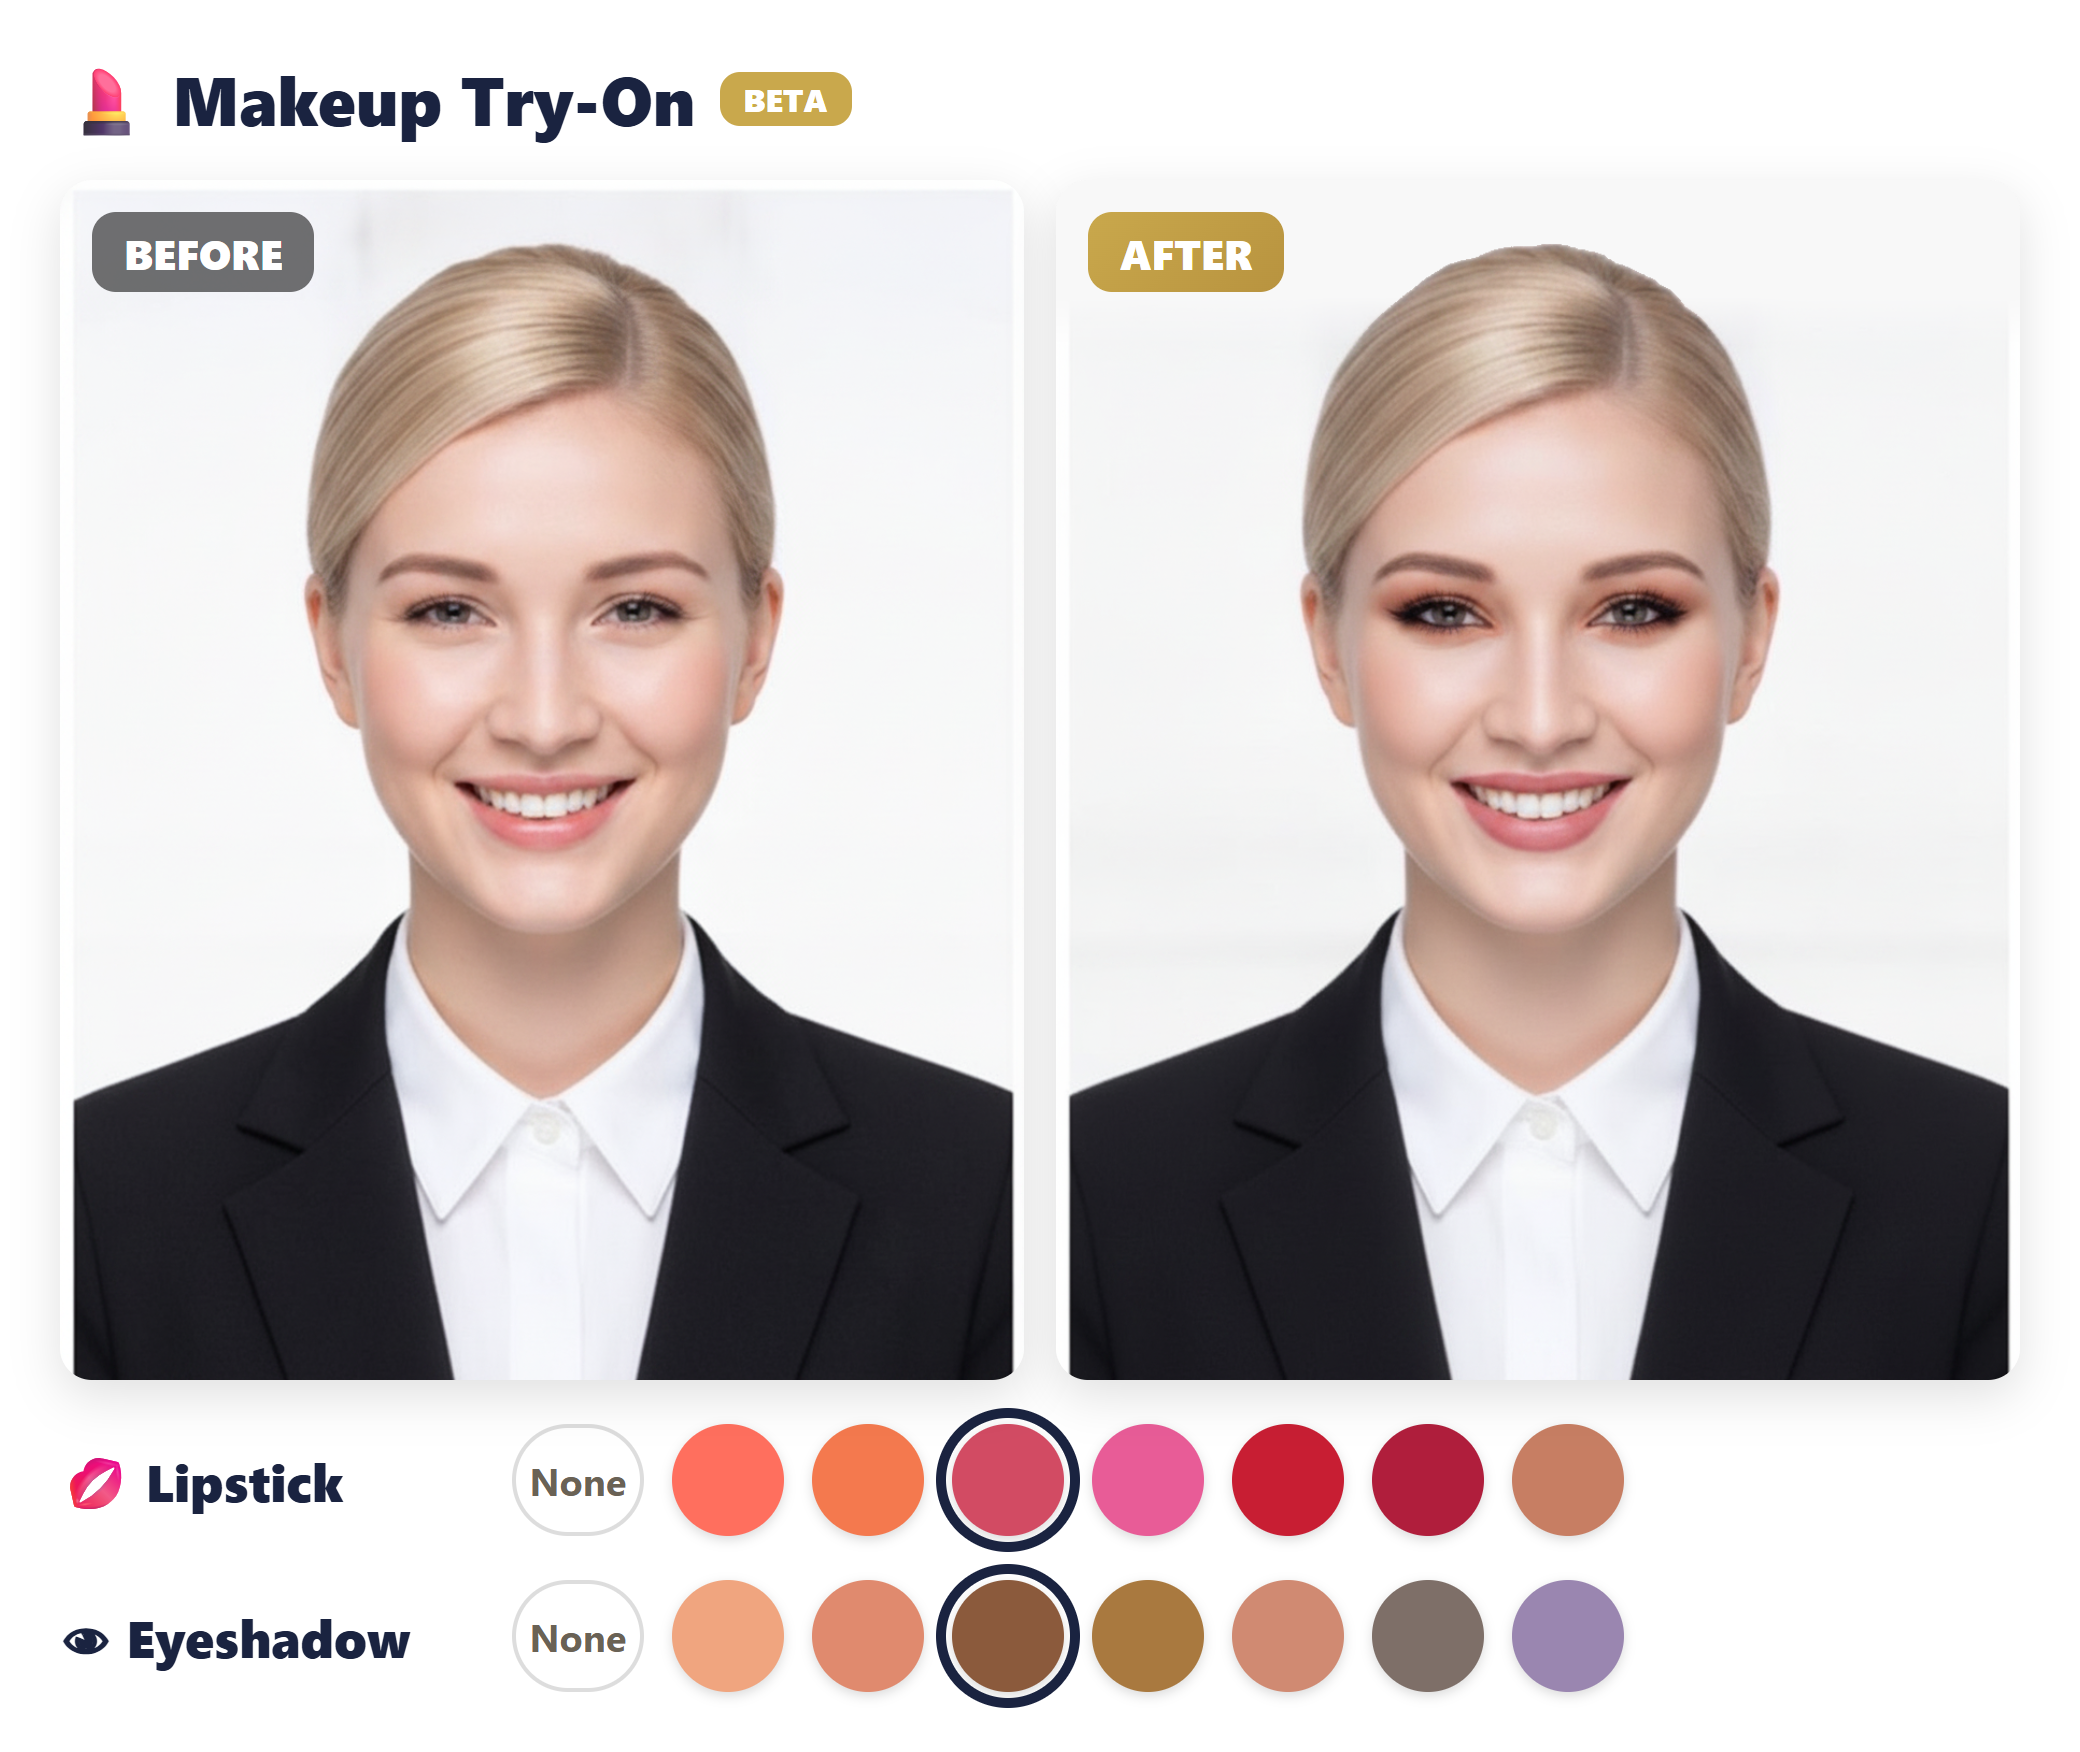
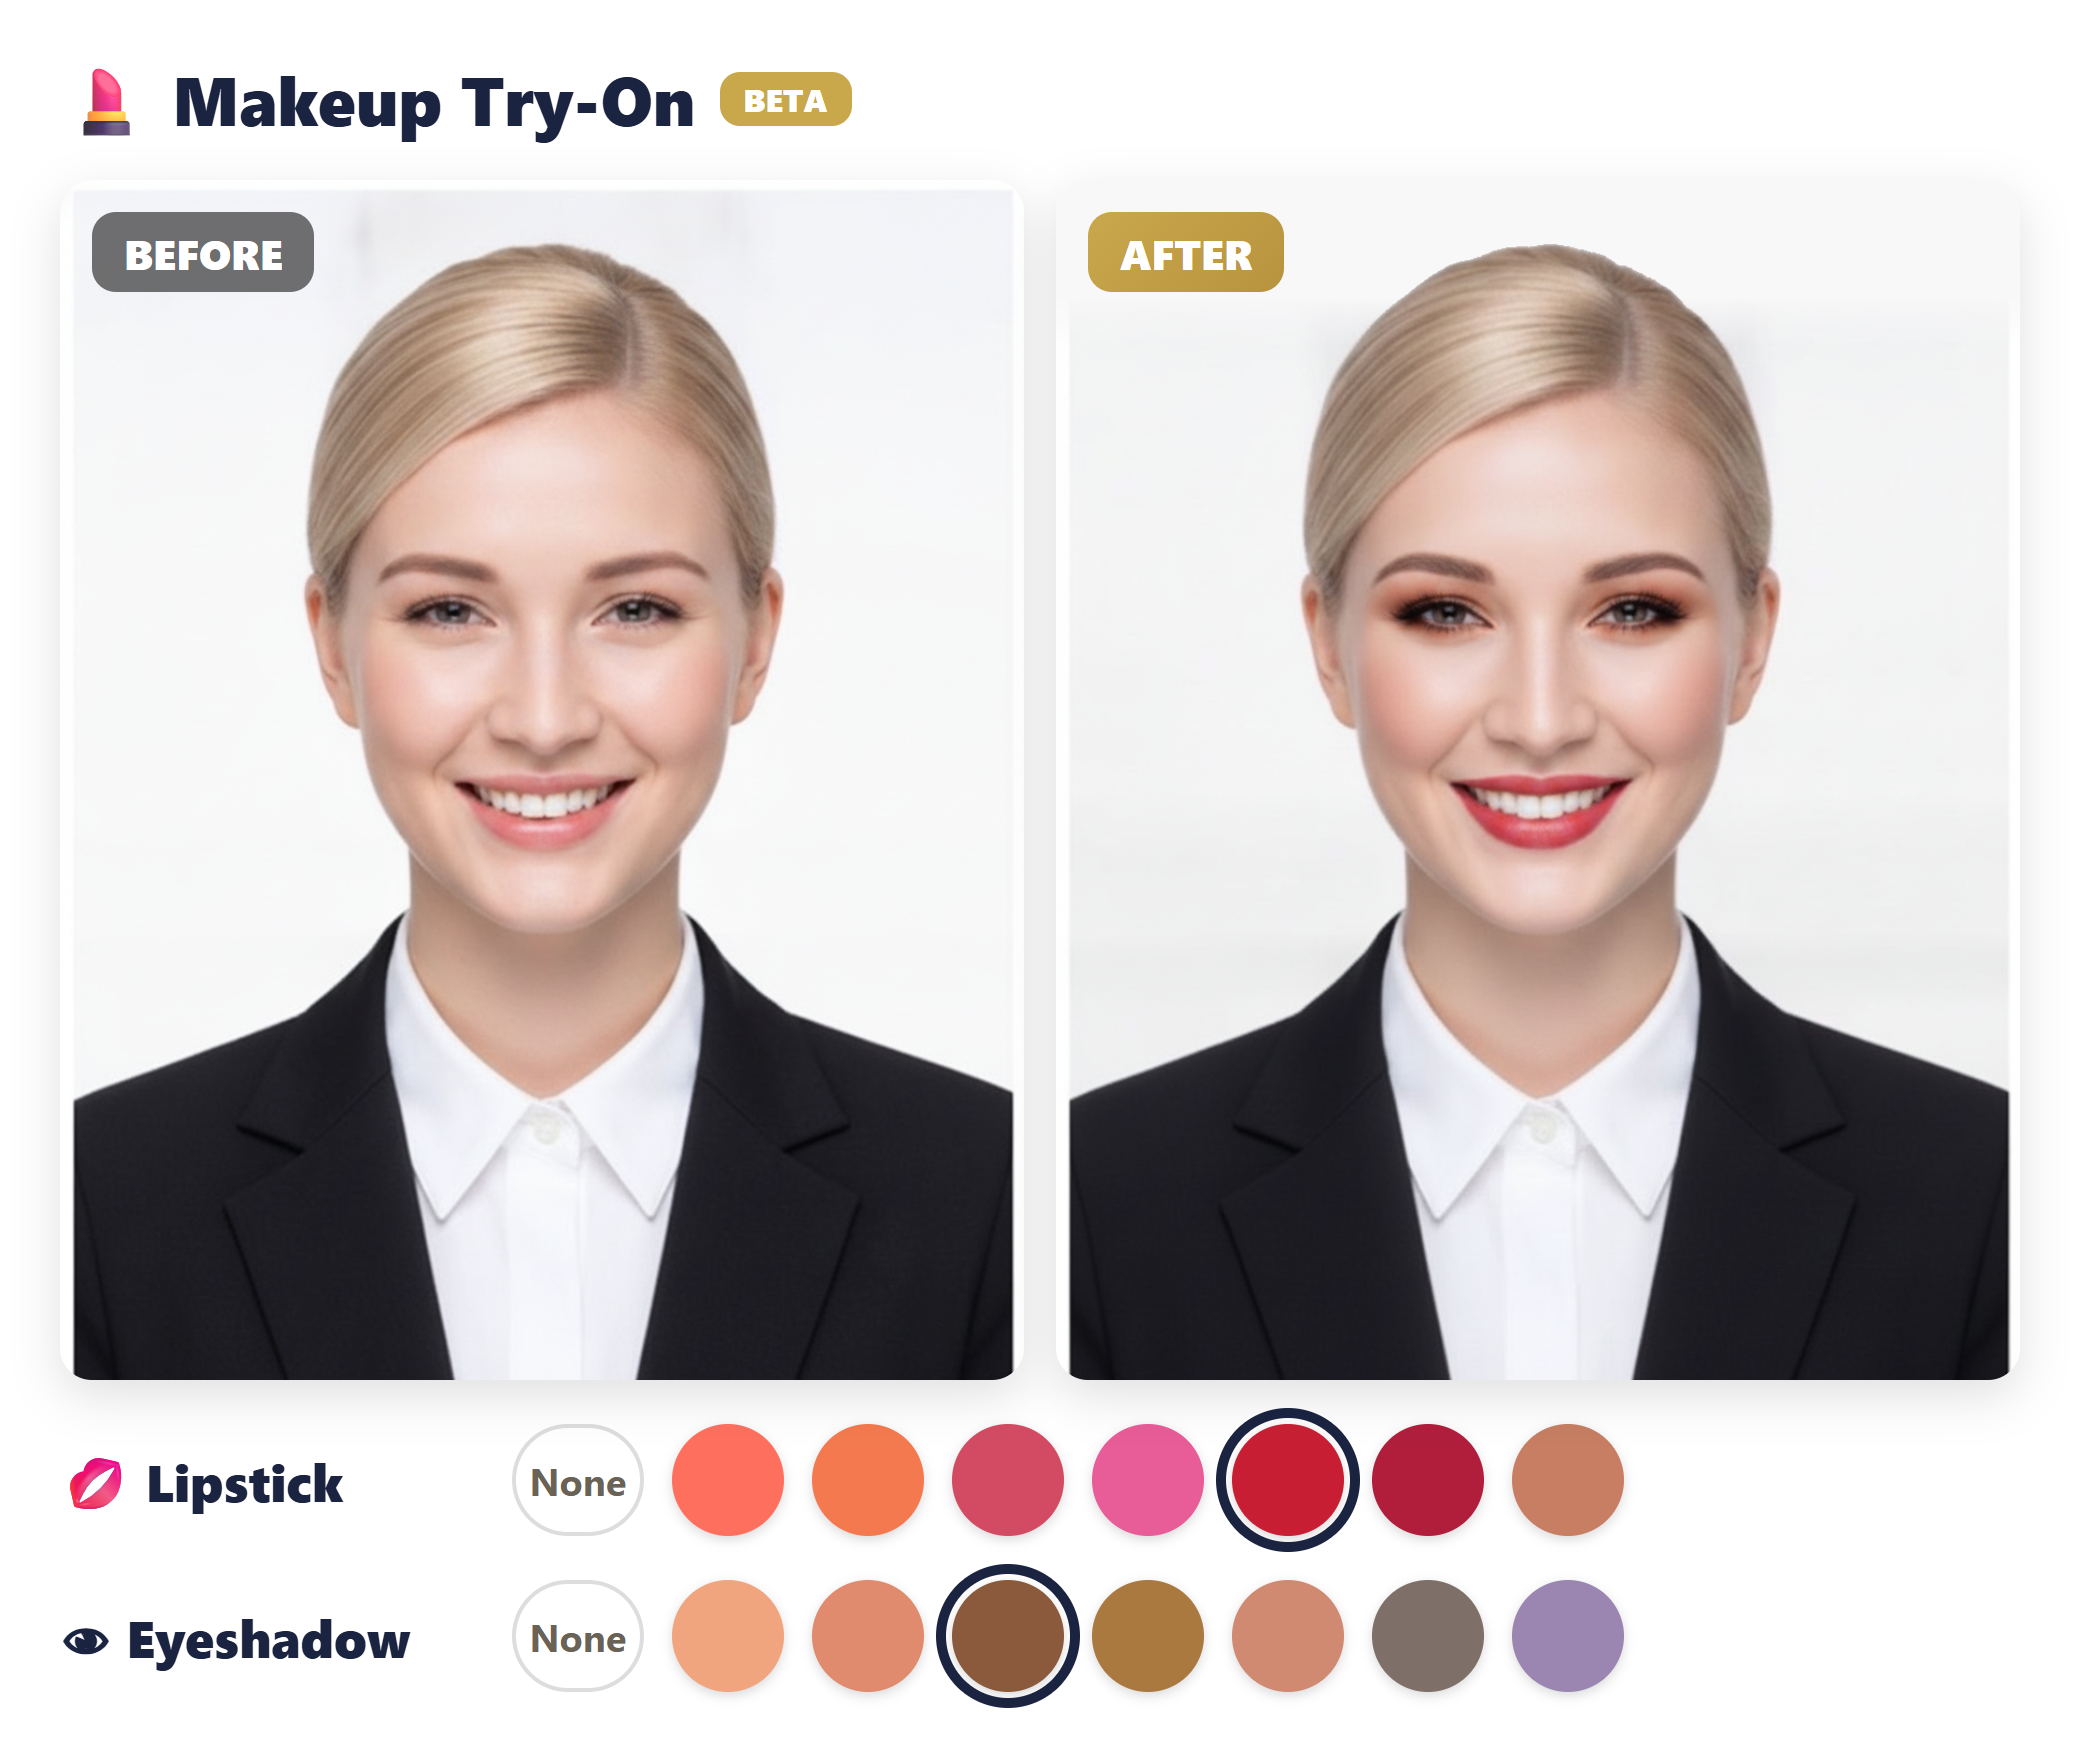
메이크업 애프터: 입술 조금 더 붉게(로즈-레드)
- 눈/볼터치는 유지, 립만 조금 더 붉고 또렷한 로즈-레드로. 썸네일 재캡처 + 캐시버스트 v7.

diff --git a/practice-foreign-en.html b/practice-foreign-en.html
@@ -213,7 +213,7 @@ footer{padding:50px 5%;background:var(--navy);color:rgba(255,255,255,0.6);text-a
   </a>
 
   <a class="hub-card" href="image-check-en.html?photo=images/cv-face-western.png#makeupCard">
-    <div class="hub-vis" style="padding:8px;background:#F7EFDD;"><img src="images/shot-makeup-en.png?v=6" style="width:100%;height:100%;object-fit:contain;border-radius:8px;display:block;" alt="Makeup try-on — lip and eyeshadow before/after"></div>
+    <div class="hub-vis" style="padding:8px;background:#F7EFDD;"><img src="images/shot-makeup-en.png?v=7" style="width:100%;height:100%;object-fit:contain;border-radius:8px;display:block;" alt="Makeup try-on — lip and eyeshadow before/after"></div>
     <div class="hub-num">Step 02</div>
     <div class="hub-title">Makeup Try-On · Find Your Colors</div>
     <div class="hub-desc">Apply lipstick, eyeshadow and eyeliner to your own face and find the shades that suit you. Compare before and after instantly.</div>
